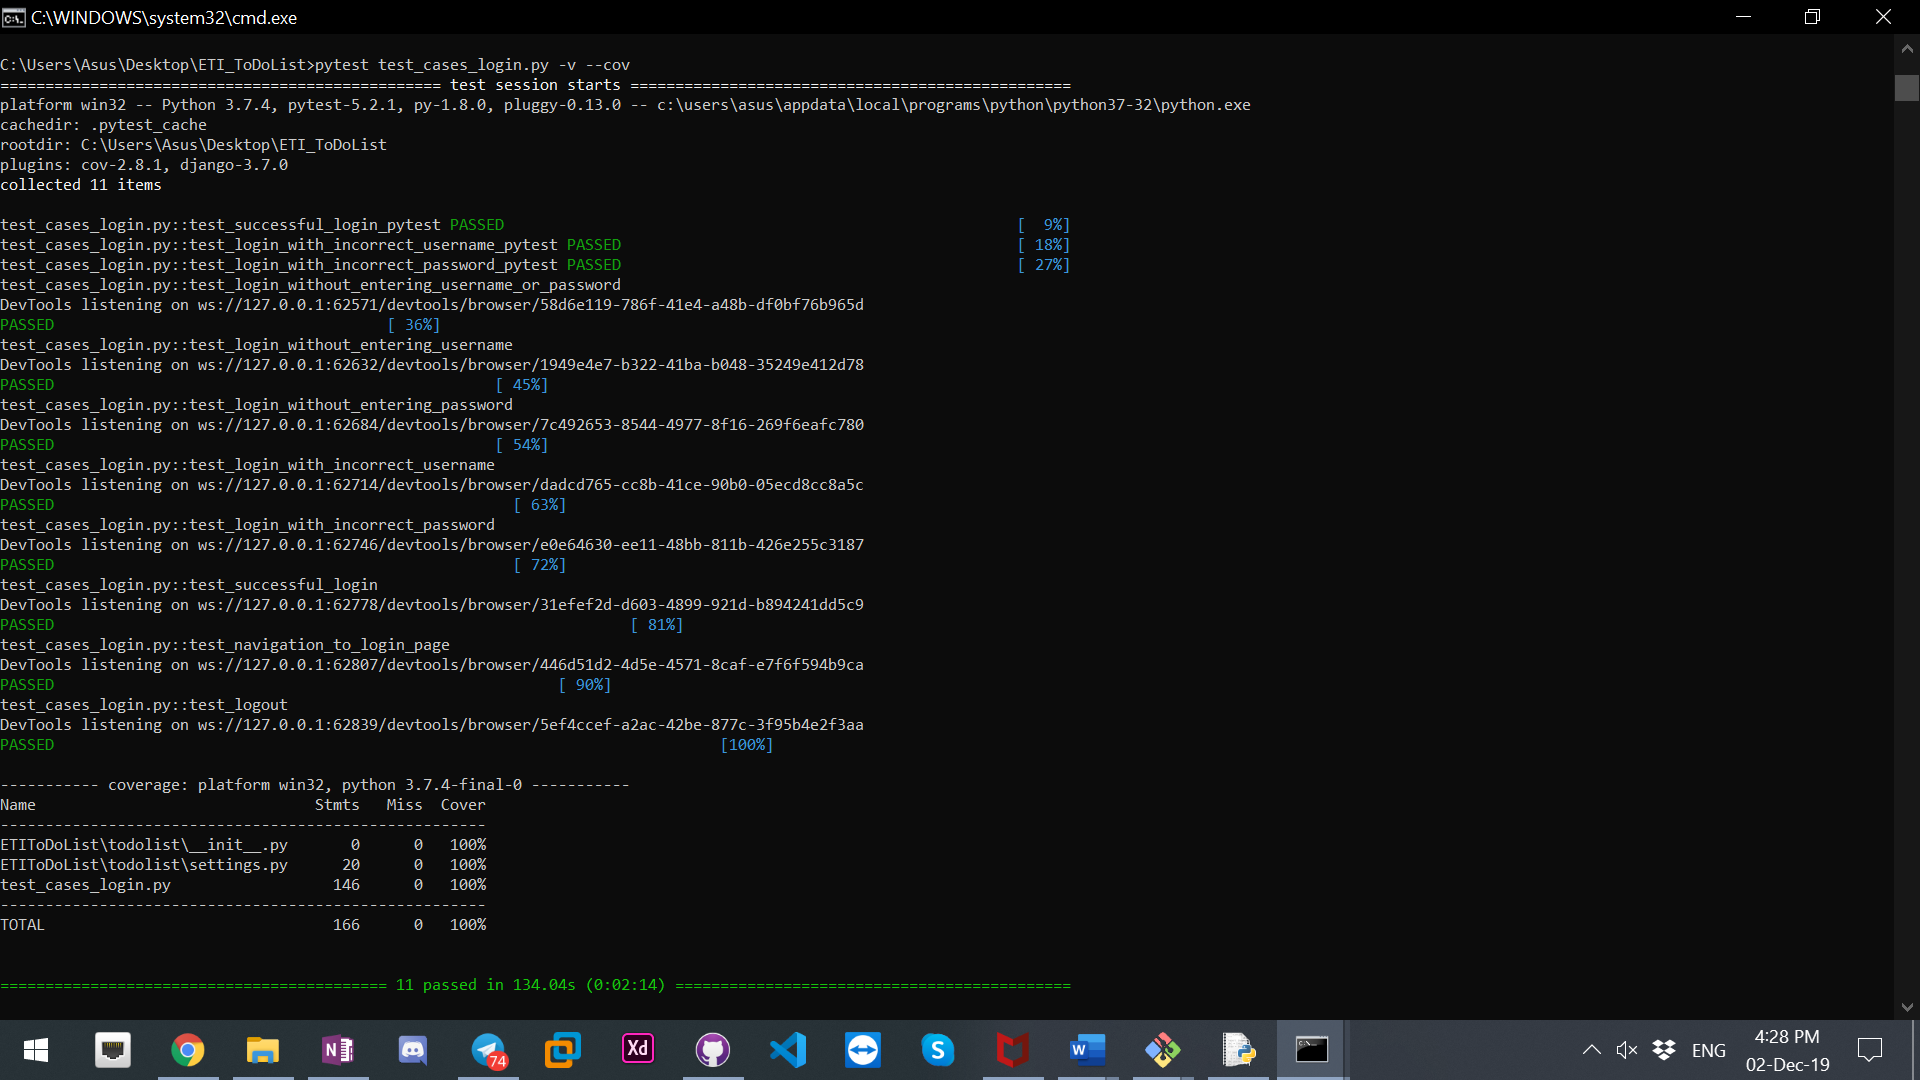
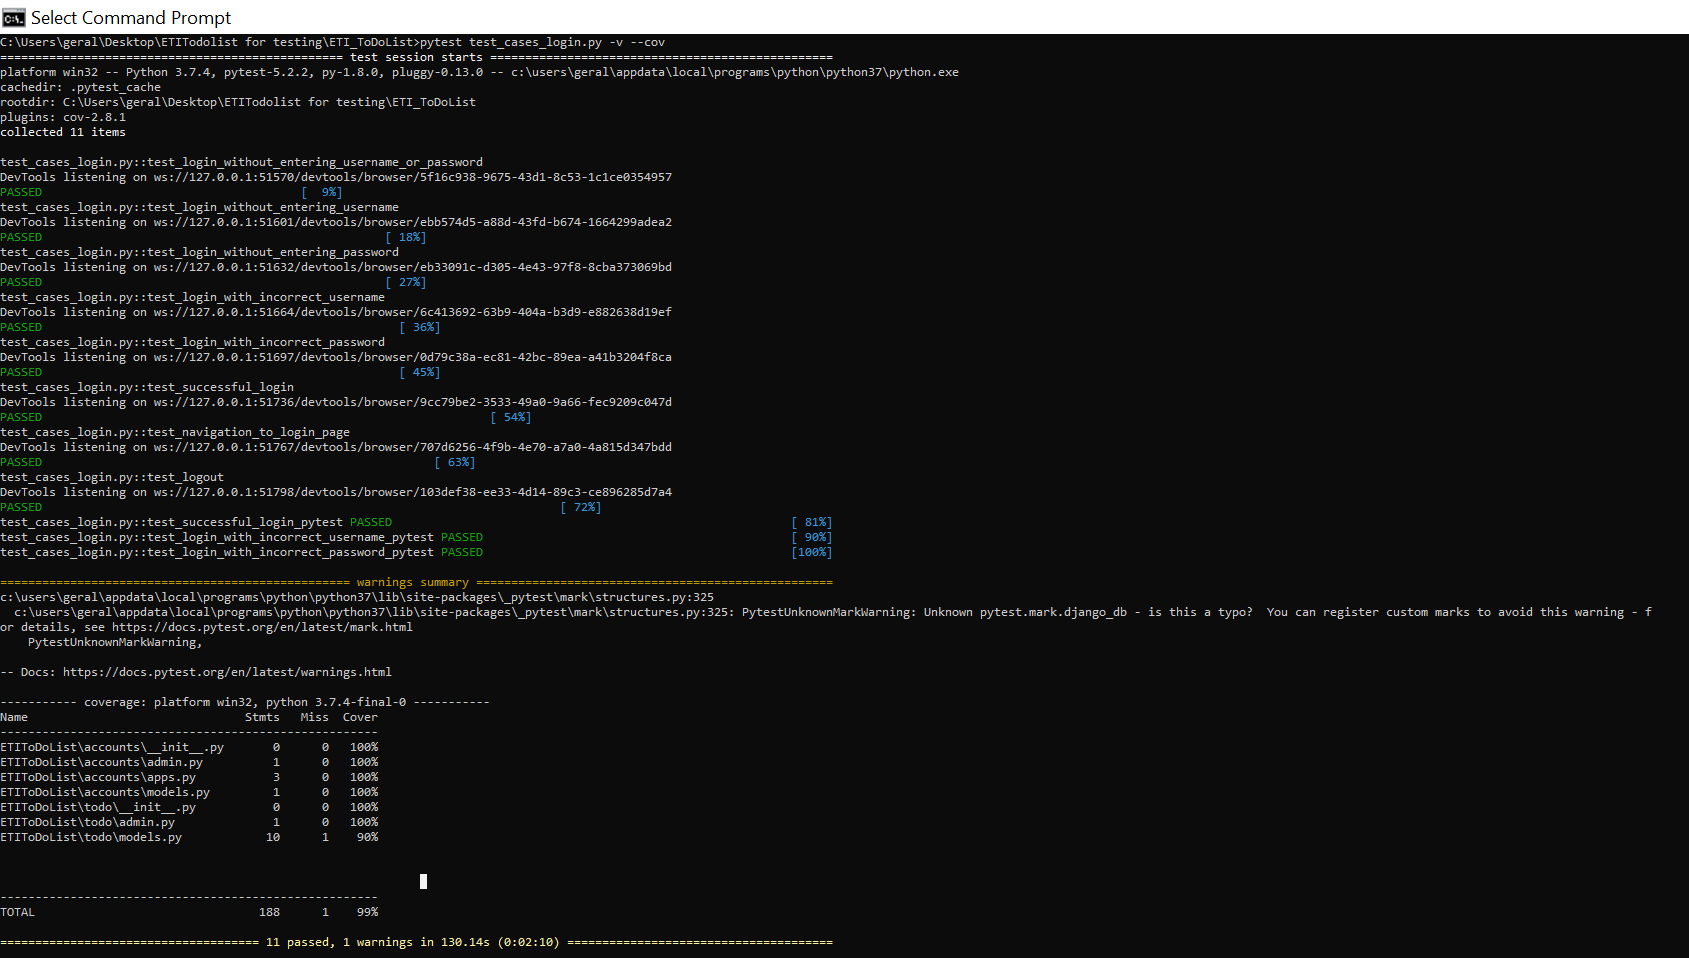
#34 Fixed test_cases_login.py
Modified test_successful_login() and test_logout()
Updated test_cases_output_login.png

diff --git a/test_cases_login.py b/test_cases_login.py
@@ -119,7 +119,7 @@ def test_successful_login():
     button = driver.find_element_by_xpath("//button")
     button.click()
     time.sleep(2)
-    assert "You are logged in as " + username + "." in driver.page_source
+    assert "Our Todo List" in driver.page_source
     driver.quit()
     
 def test_navigation_to_login_page():
@@ -151,7 +151,7 @@ def test_logout():
     button = driver.find_element_by_xpath("//button")
     button.click()
     
-    logout = driver.find_element_by_tag_name('a')
+    logout = driver.find_element_by_xpath("//a[contains(text(), 'Log Out')]")
     logout.click()
     time.sleep(2)
     assert "You are not logged in." in driver.page_source
